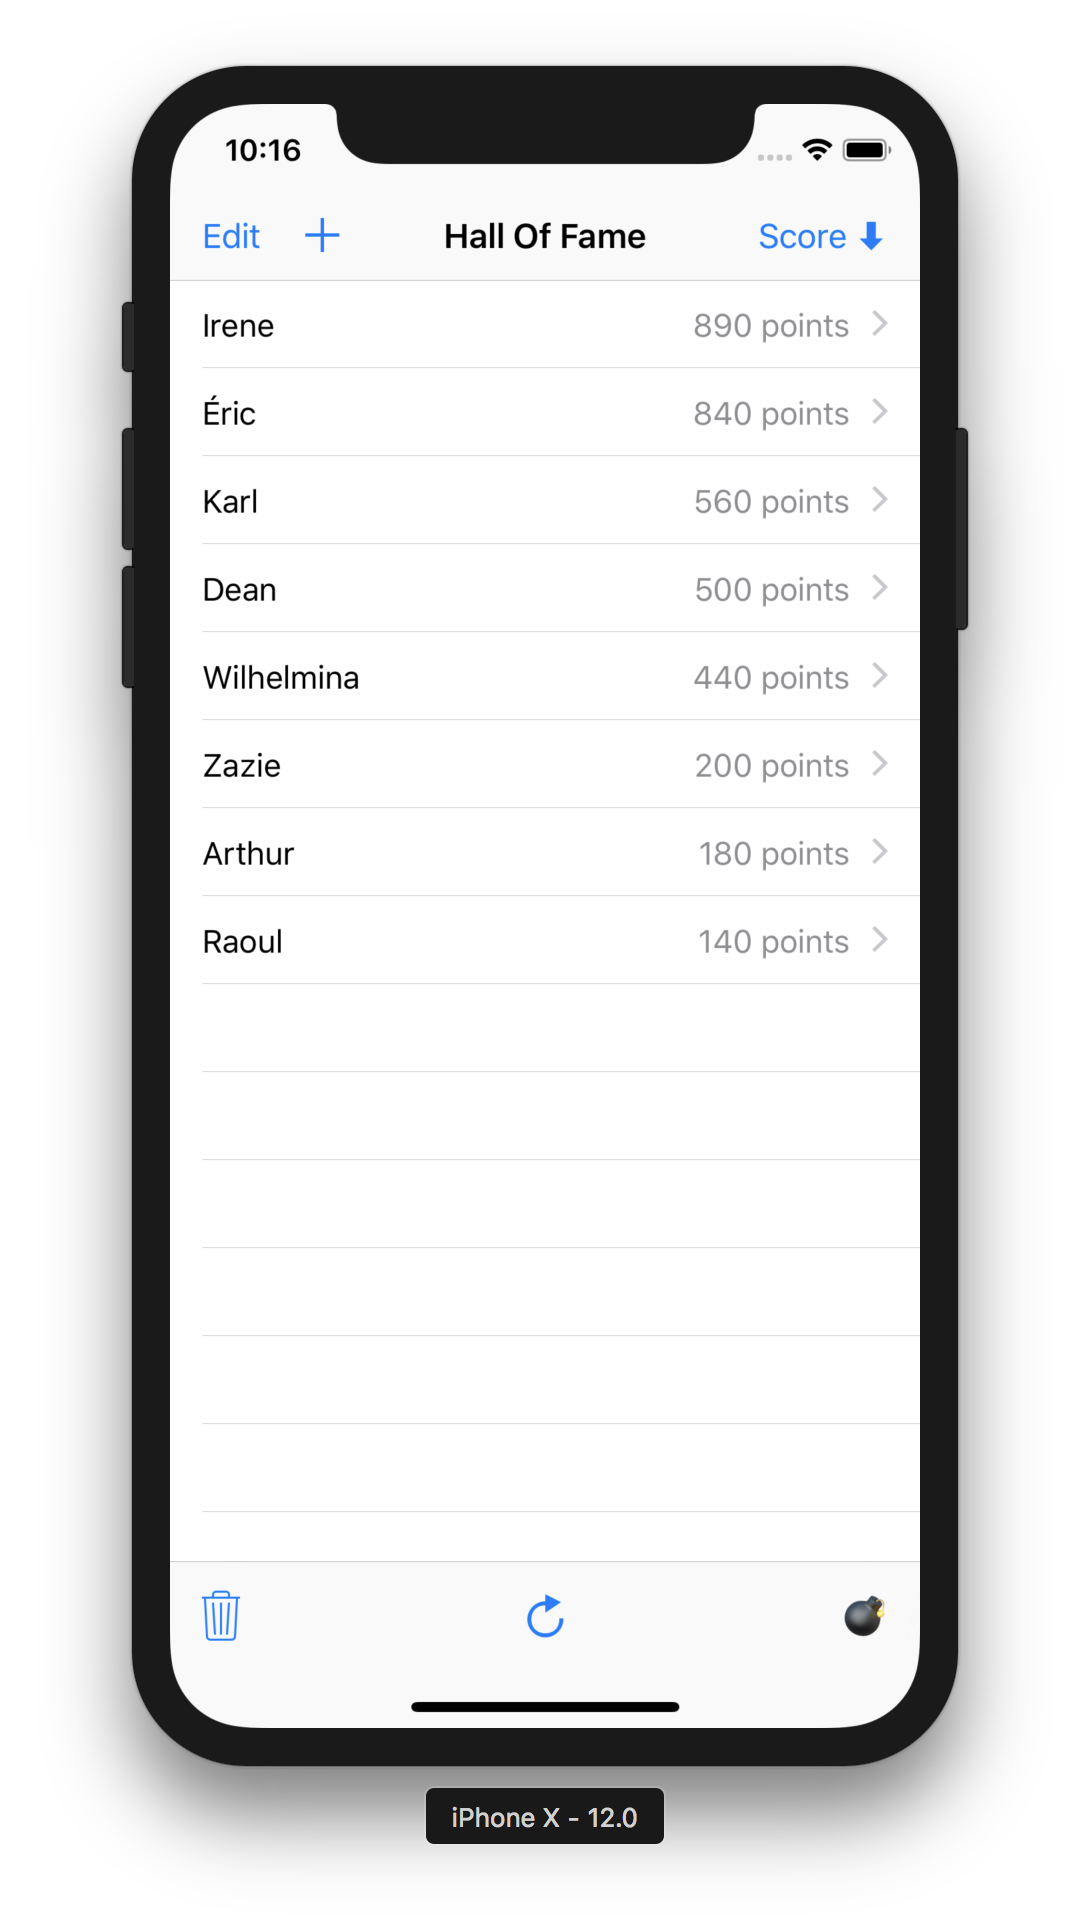
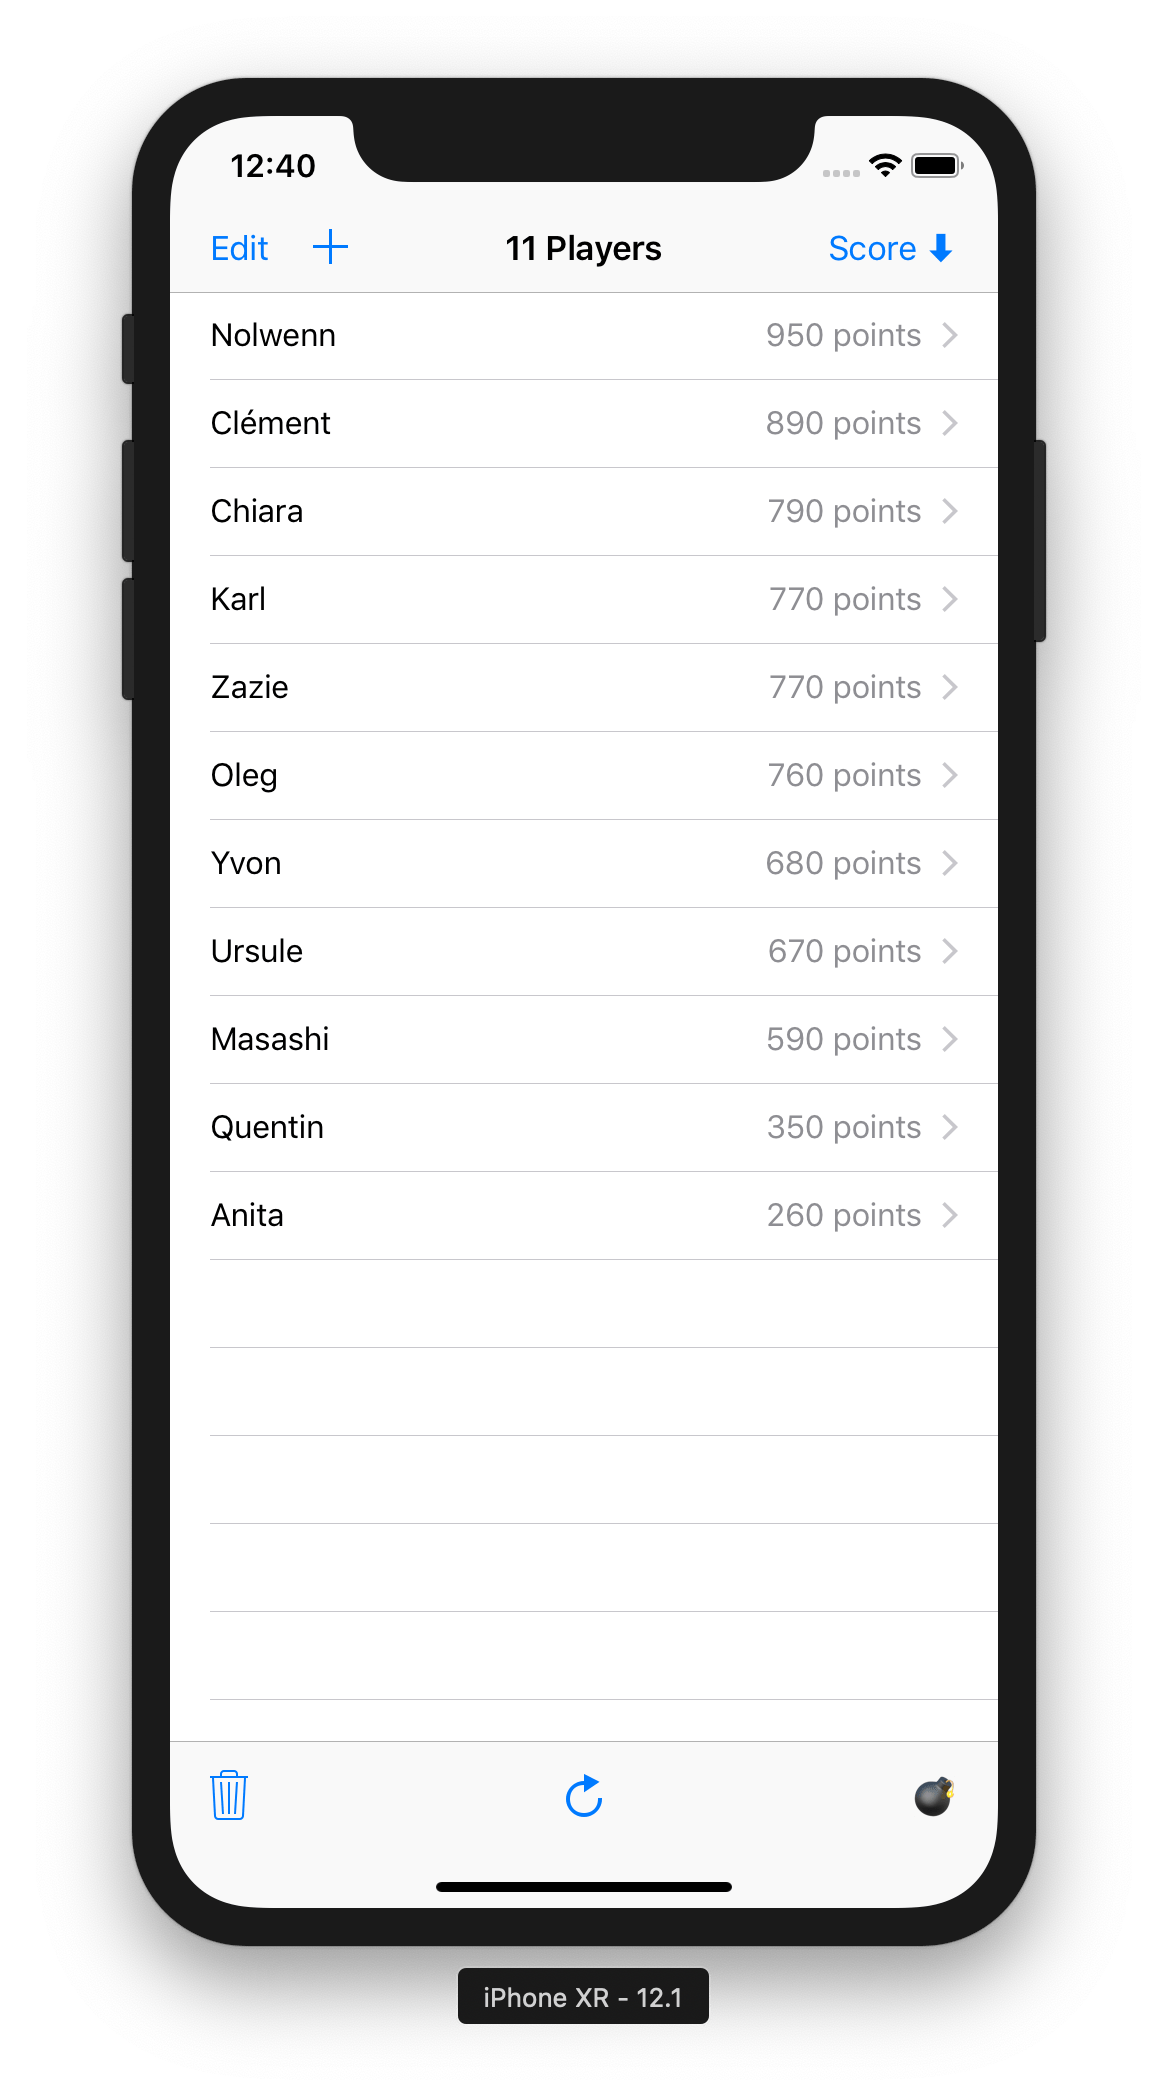
Use ValueObservation is demo application

diff --git a/DemoApps/GRDBDemoiOS/GRDBDemoiOS/PlayersViewController.swift b/DemoApps/GRDBDemoiOS/GRDBDemoiOS/PlayersViewController.swift
@@ -1,22 +1,23 @@
 import UIKit
 import GRDB
 
+/// PlayersViewController displays the list of players.
 class PlayersViewController: UITableViewController {
-    enum PlayerOrdering {
+    private enum PlayerOrdering {
         case byName
         case byScore
     }
     
-    var playersController: FetchedRecordsController<Player>!
-    
-    var playerOrdering: PlayerOrdering = .byScore {
+    @IBOutlet private weak var newPlayerButtonItem: UIBarButtonItem!
+    private var playersController: FetchedRecordsController<Player>!
+    private var playerCountObserver: TransactionObserver?
+    private var playerOrdering: PlayerOrdering = .byScore {
         didSet {
             try! playersController.setRequest(playersRequest)
-            configureNavigationItem()
+            configureOrderingBarButtonItem()
         }
     }
-    
-    var playersRequest: QueryInterfaceRequest<Player> {
+    private var playersRequest: QueryInterfaceRequest<Player> {
         switch playerOrdering {
         case .byName:
             return Player.orderedByName()
@@ -25,57 +26,59 @@ class PlayersViewController: UITableViewController {
         }
     }
     
-    @IBOutlet weak var newPlayerButtonItem: UIBarButtonItem!
-    
     override func viewDidLoad() {
         super.viewDidLoad()
-        configureTableView()
         configureToolbar()
-        configureNavigationItem()
+        configureOrderingBarButtonItem()
+        configureTitle()
+        configureTableView()
     }
     
     override func viewWillAppear(_ animated: Bool) {
         super.viewWillAppear(animated)
         navigationController?.isToolbarHidden = false
     }
-}
-
-
-// MARK: - Navigation
-
-extension PlayersViewController {
     
-    override func prepare(for segue: UIStoryboardSegue, sender: Any?) {
-        if segue.identifier == "Edit" {
-            let player = playersController.record(at: tableView.indexPathForSelectedRow!)
-            let controller = segue.destination as! PlayerEditionViewController
-            controller.title = player.name
-            controller.player = player
-            controller.presentation = .push
+    private func configureToolbar() {
+        toolbarItems = [
+            UIBarButtonItem(barButtonSystemItem: .trash, target: self, action: #selector(deletePlayers)),
+            UIBarButtonItem(barButtonSystemItem: .flexibleSpace, target: nil, action: nil),
+            UIBarButtonItem(barButtonSystemItem: .refresh, target: self, action: #selector(refresh)),
+            UIBarButtonItem(barButtonSystemItem: .flexibleSpace, target: nil, action: nil),
+            UIBarButtonItem(title: "💣", style: .plain, target: self, action: #selector(stressTest)),
+        ]
+    }
+    
+    private func configureOrderingBarButtonItem() {
+        navigationItem.leftBarButtonItems = [editButtonItem, newPlayerButtonItem]
+        
+        switch playerOrdering {
+        case .byScore:
+            navigationItem.rightBarButtonItem = UIBarButtonItem(
+                title: "Score ⬇",
+                style: .plain,
+                target: self, action: #selector(sortByName))
+        case .byName:
+            navigationItem.rightBarButtonItem = UIBarButtonItem(
+                title: "Name ⬆",
+                style: .plain,
+                target: self, action: #selector(sortByScore))
         }
-        else if segue.identifier == "New" {
-            setEditing(false, animated: true)
-            let navigationController = segue.destination as! UINavigationController
-            let controller = navigationController.viewControllers.first as! PlayerEditionViewController
-            controller.title = "New Player"
-            controller.player = Player(id: nil, name: "", score: 0)
-            controller.presentation = .modal
+    }
+    
+    private func configureTitle() {
+        // Track changes in the number of players
+        playerCountObserver = try! ValueObservation
+            .trackingCount(withUniquing: playersRequest)
+            .start(in: dbQueue) { [unowned self] count in
+                switch count {
+                case 0: self.navigationItem.title = "No Player"
+                case 1: self.navigationItem.title = "1 Player"
+                default: self.navigationItem.title = "\(count) Players"
+                }
         }
     }
     
-    @IBAction func cancelPlayerEdition(_ segue: UIStoryboardSegue) {
-        // Player creation cancelled
-    }
-    
-    @IBAction func commitPlayerEdition(_ segue: UIStoryboardSegue) {
-        // Player creation committed
-    }
-}
-
-
-// MARK: - UITableViewDataSource
-
-extension PlayersViewController {
     private func configureTableView() {
         // Track changes in the database players
         playersController = try! FetchedRecordsController(dbQueue, request: playersRequest)
@@ -118,7 +121,44 @@ extension PlayersViewController {
         // Initial fetch
         try! playersController.performFetch()
     }
+}
+
+
+// MARK: - Navigation
+
+extension PlayersViewController {
     
+    override func prepare(for segue: UIStoryboardSegue, sender: Any?) {
+        if segue.identifier == "Edit" {
+            let player = playersController.record(at: tableView.indexPathForSelectedRow!)
+            let controller = segue.destination as! PlayerEditionViewController
+            controller.title = player.name
+            controller.player = player
+            controller.presentation = .push
+        }
+        else if segue.identifier == "New" {
+            setEditing(false, animated: true)
+            let navigationController = segue.destination as! UINavigationController
+            let controller = navigationController.viewControllers.first as! PlayerEditionViewController
+            controller.title = "New Player"
+            controller.player = Player(id: nil, name: "", score: 0)
+            controller.presentation = .modal
+        }
+    }
+    
+    @IBAction func cancelPlayerEdition(_ segue: UIStoryboardSegue) {
+        // Player creation cancelled
+    }
+    
+    @IBAction func commitPlayerEdition(_ segue: UIStoryboardSegue) {
+        // Player creation committed
+    }
+}
+
+
+// MARK: - UITableViewDataSource
+
+extension PlayersViewController {
     override func numberOfSections(in tableView: UITableView) -> Int {
         return playersController.sections.count
     }
@@ -156,33 +196,6 @@ extension PlayersViewController {
 // MARK: - Actions
 
 extension PlayersViewController {
-    private func configureNavigationItem() {
-        navigationItem.leftBarButtonItems = [editButtonItem, newPlayerButtonItem]
-        
-        switch playerOrdering {
-        case .byScore:
-            navigationItem.rightBarButtonItem = UIBarButtonItem(
-                title: "Score ⬇",
-                style: .plain,
-                target: self, action: #selector(sortByName))
-        case .byName:
-            navigationItem.rightBarButtonItem = UIBarButtonItem(
-                title: "Name ⬆",
-                style: .plain,
-                target: self, action: #selector(sortByScore))
-        }
-    }
-    
-    private func configureToolbar() {
-        toolbarItems = [
-            UIBarButtonItem(barButtonSystemItem: .trash, target: self, action: #selector(deletePlayers)),
-            UIBarButtonItem(barButtonSystemItem: .flexibleSpace, target: nil, action: nil),
-            UIBarButtonItem(barButtonSystemItem: .refresh, target: self, action: #selector(refresh)),
-            UIBarButtonItem(barButtonSystemItem: .flexibleSpace, target: nil, action: nil),
-            UIBarButtonItem(title: "💣", style: .plain, target: self, action: #selector(stressTest)),
-        ]
-    }
-    
     @IBAction func sortByName() {
         setEditing(false, animated: true)
         playerOrdering = .byName

diff --git a/README.md b/README.md
@@ -66,7 +66,7 @@ GRDB ships with:
 
 Companion libraries that enhance and extend GRDB:
 
-- [RxGRDB](http://github.com/RxSwiftCommunity/RxGRDB): track database changes in a reactive way, with [RxSwift](https://github.com/ReactiveX/RxSwift).
+- [RxGRDB]: track database changes in a reactive way, with [RxSwift](https://github.com/ReactiveX/RxSwift).
 - [GRDBObjc](https://github.com/groue/GRDBObjc): FMDB-compatible bindings to GRDB.
 
 
@@ -357,7 +357,7 @@ The repository comes with a [demo application](DemoApps/GRDBDemoiOS) that shows 
 
 - how to setup a database in an iOS app
 - how to define a simple [Codable Record](#codable-records)
-- how to track database changes and animate a table view with [FetchedRecordsController](#fetchedrecordscontroller).
+- how to track database changes with [ValueObservation] and [FetchedRecordsController].
 
 <p align="center">
     <img src="https://github.com/groue/GRDB.swift/raw/master/Documentation/Images/GRDBDemoScreenshot.png" width="50%">
@@ -2061,7 +2061,7 @@ Before jumping in the low-level wagon, here is the list of all SQLite APIs used 
 - `sqlite3_busy_handler`, `sqlite3_busy_timeout`: see [Configuration.busyMode](http://groue.github.io/GRDB.swift/docs/3.4/Structs/Configuration.html)
 - `sqlite3_changes`, `sqlite3_total_changes`: see [Database.changesCount and Database.totalChangesCount](http://groue.github.io/GRDB.swift/docs/3.4/Classes/Database.html)
 - `sqlite3_close`, `sqlite3_close_v2`, `sqlite3_next_stmt`, `sqlite3_open_v2`: see [Database Connections](#database-connections)
-- `sqlite3_commit_hook`, `sqlite3_rollback_hook`, `sqlite3_update_hook`: see [TransactionObserver Protocol](#transactionobserver-protocol), [ValueObservation], [FetchedRecordsController](#fetchedrecordscontroller)
+- `sqlite3_commit_hook`, `sqlite3_rollback_hook`, `sqlite3_update_hook`: see [TransactionObserver Protocol](#transactionobserver-protocol), [ValueObservation], [FetchedRecordsController]
 - `sqlite3_config`: see [Error Log](#error-log)
 - `sqlite3_create_collation_v2`: see [String Comparison](#string-comparison)
 - `sqlite3_db_release_memory`: see [Memory Management](#memory-management)
@@ -5782,8 +5782,8 @@ GRDB puts this SQLite feature to some good use, and lets you observe the databas
 - [After Commit Hook](#after-commit-hook): The simplest way to handle successful transactions.
 - [TransactionObserver Protocol](#transactionobserver-protocol): Low-level database observation.
 - [ValueObservation]: Automated tracking of database changes.
-- [FetchedRecordsController](#fetchedrecordscontroller): Automated tracking of database changes, with table view animations.
-- [RxGRDB](http://github.com/RxSwiftCommunity/RxGRDB): Automated tracking of database changes, with [RxSwift](https://github.com/ReactiveX/RxSwift).
+- [FetchedRecordsController]: Automated tracking of database changes, with table view animations.
+- [RxGRDB]: Automated tracking of database changes, with [RxSwift](https://github.com/ReactiveX/RxSwift).
 
 Database observation requires that a single [database queue](#database-queues) or [pool](#database-pools) is kept open for all the duration of the database usage.
 
@@ -5971,7 +5971,7 @@ do {
 > :point_up: **Note**: the databaseDidChange(with:) and databaseWillCommit() callbacks must not touch the SQLite database. This limitation does not apply to databaseDidCommit and databaseDidRollback which can use their database argument.
 
 
-[ValueObservation], [FetchedRecordsController](#fetchedrecordscontroller), and [RxGRDB](http://github.com/RxSwiftCommunity/RxGRDB) are based on the TransactionObserver protocol.
+[ValueObservation], [FetchedRecordsController], and [RxGRDB] are based on the TransactionObserver protocol.
 
 See also [TableChangeObserver.swift](https://gist.github.com/groue/2e21172719e634657dfd), which shows a transaction observer that notifies of modified database tables with NSNotificationCenter.
 
@@ -6601,7 +6601,7 @@ Given a fetch request, and a type that adopts the [FetchableRecord] protocol, su
 
 See the [Demo Application](DemoApps/GRDBDemoiOS) for an sample app that uses FetchedRecordsController.
 
-When you don't need to animate a table or a collection view, use [ValueObservation] or [RxGRDB](http://github.com/RxSwiftCommunity/RxGRDB) instead.
+When you don't need to animate a table or a collection view, use [ValueObservation] or [RxGRDB] instead.
 
 - [Creating the Fetched Records Controller](#creating-the-fetched-records-controller)
 - [Responding to Changes](#responding-to-changes)
@@ -7746,8 +7746,8 @@ These protocols provide a unified API that let you write generic code that targe
 
 - [Migrations](#migrations)
 - [ValueObservation]
-- [FetchedRecordsController](#fetchedrecordscontroller)
-- [RxGRDB](http://github.com/RxSwiftCommunity/RxGRDB)
+- [FetchedRecordsController]
+- [RxGRDB]
 
 Only five types adopt those protocols: DatabaseQueue, DatabasePool, DatabaseSnapshot, AnyDatabaseReader, and AnyDatabaseWriter. Expanding this set is not supported: any future GRDB release may break your custom writers and readers, without notice.
 
@@ -8299,3 +8299,5 @@ This chapter has been renamed [Beyond FetchableRecord].
 [Record Customization Options]: #record-customization-options
 [TableRecord]: #tablerecord-protocol
 [ValueObservation]: #valueobservation
+[FetchedRecordsController]: #fetchedrecordscontroller
+[RxGRDB]: http://github.com/RxSwiftCommunity/RxGRDB

diff --git a/DemoApps/GRDBDemoiOS/README.md b/DemoApps/GRDBDemoiOS/README.md
@@ -25,7 +25,7 @@ Demo Application
 
 - [PlayersViewController.swift](GRDBDemoiOS/PlayersViewController.swift)
     
-    `PlayersViewController` displays a list of players, and animates its table view according to database changes with [FetchedRecordsController](../../README.md#fetchedrecordscontroller).
+    `PlayersViewController` displays a list of players. It keeps its title up-to-date with [ValueObservation](../../README.md#valueobservation), and animates its table view according to database changes with [FetchedRecordsController](../../README.md#fetchedrecordscontroller).
 
 - [PlayerEditionViewController.swift](GRDBDemoiOS/PlayerEditionViewController.swift)
     
